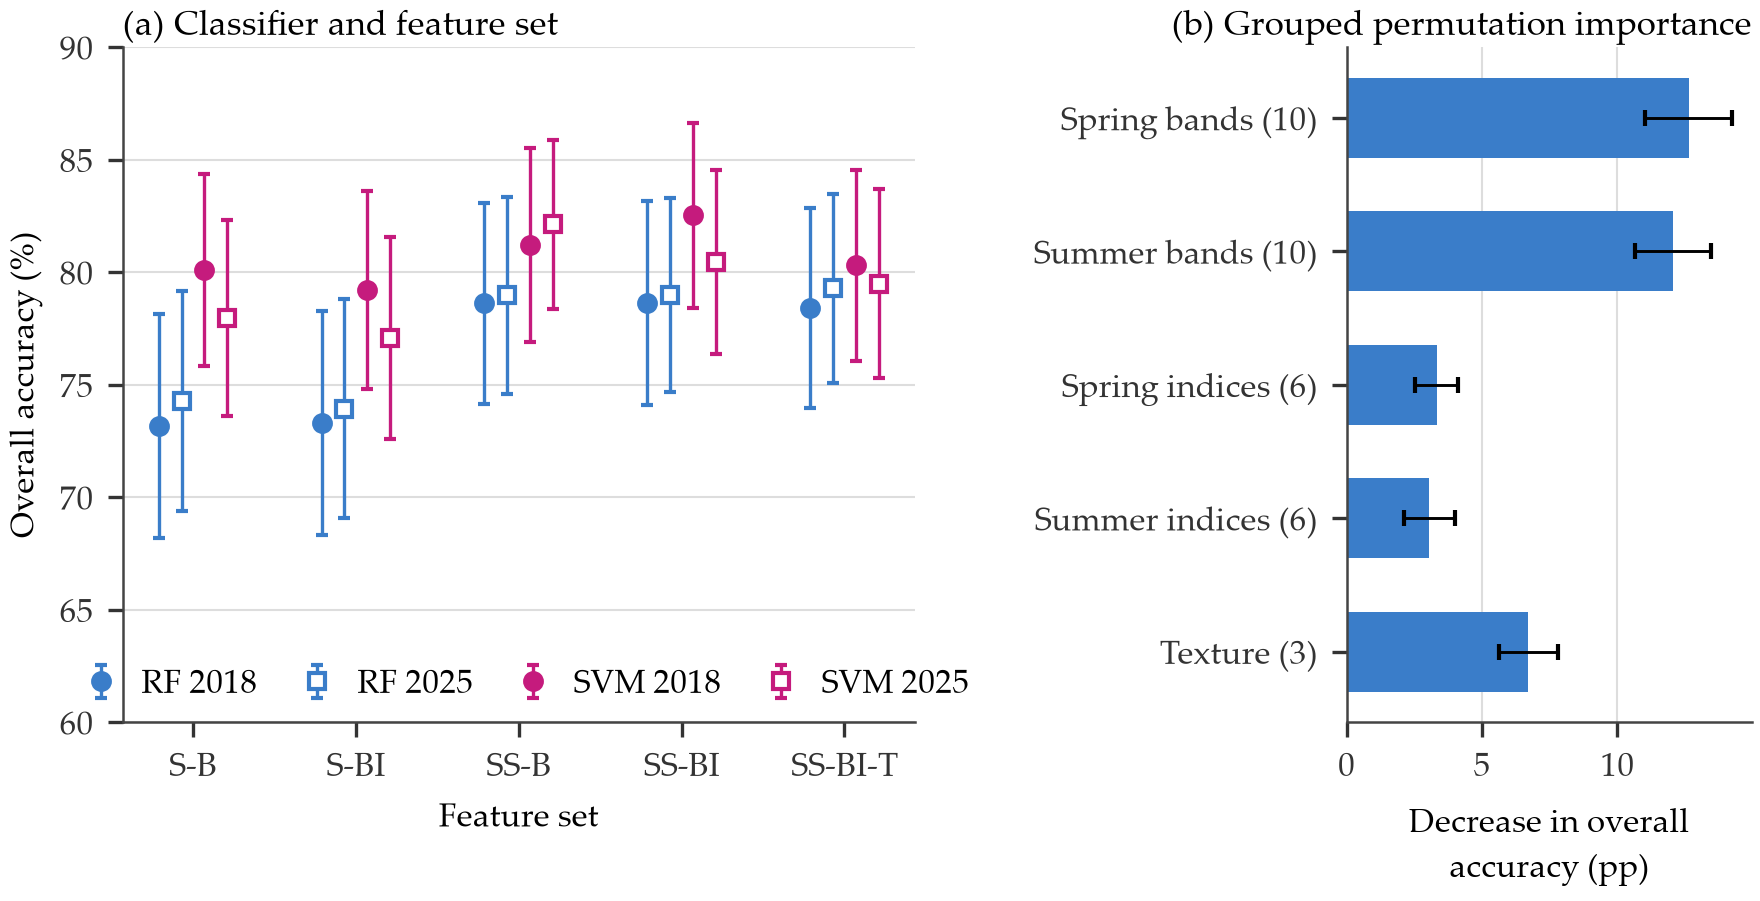
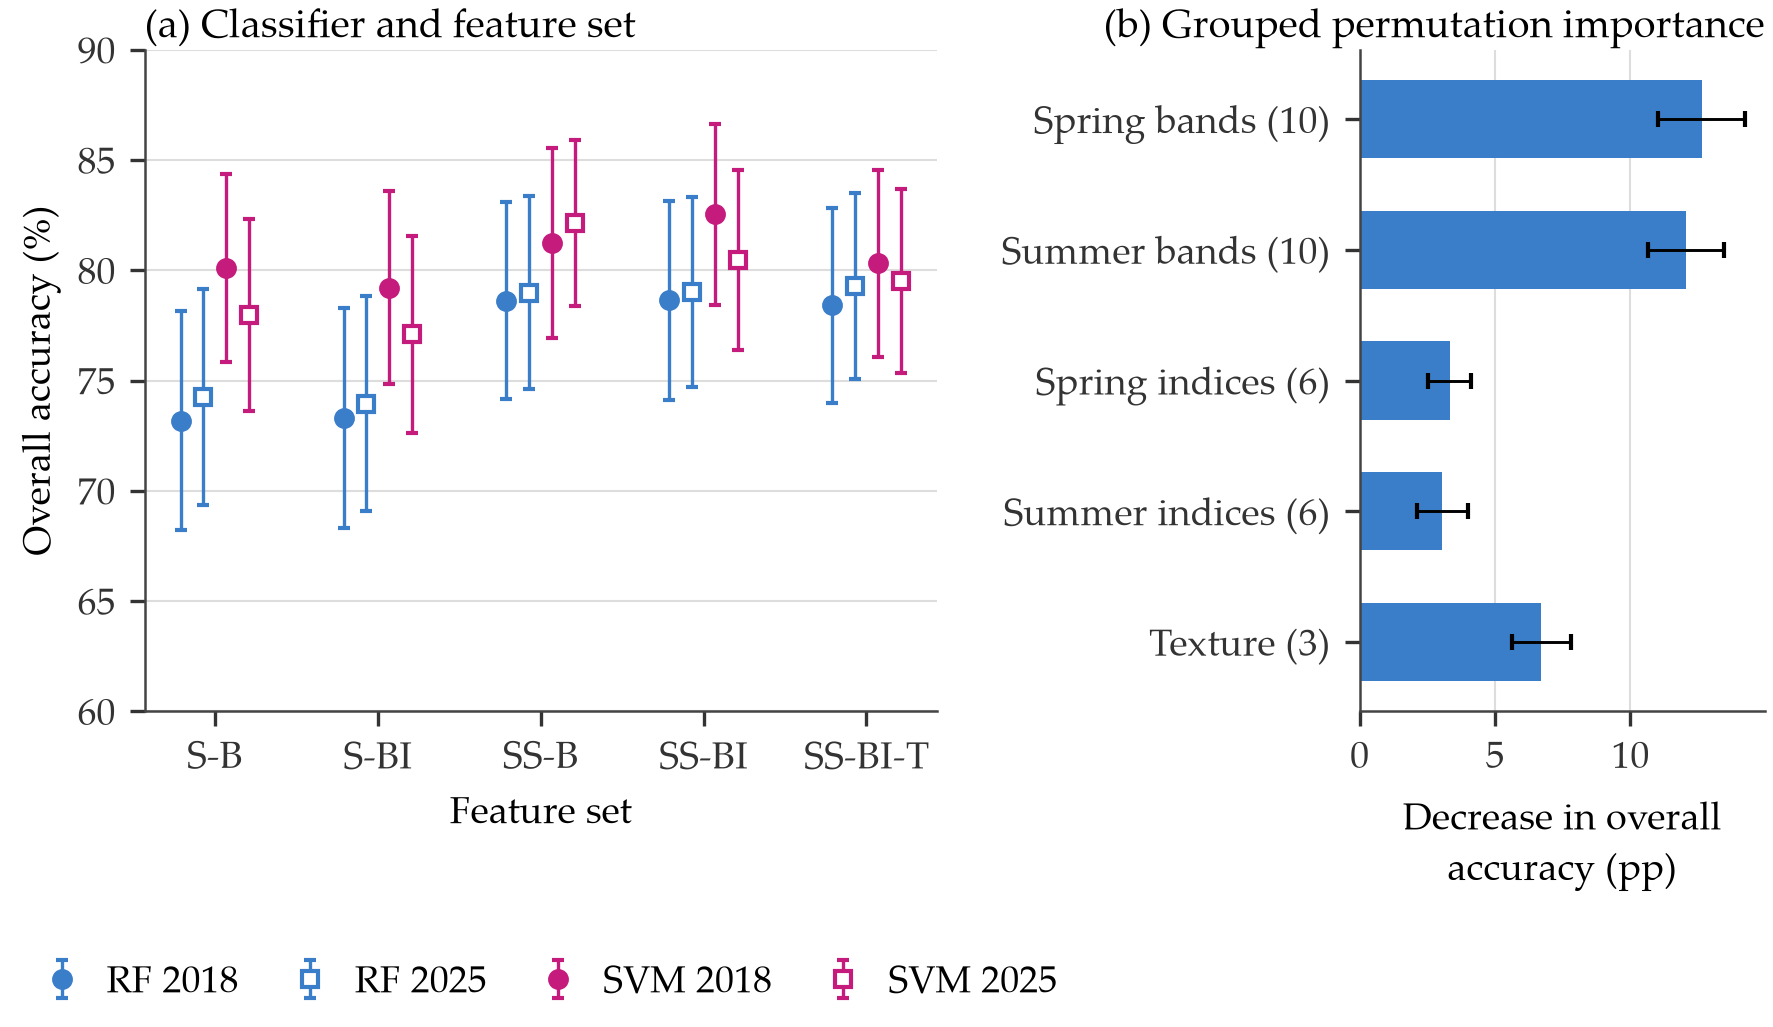
Update affiliation, figure font sizes and CVA histogram sample
- CITATION.cff: new author affiliation
- Figures 4, 5, 7 and 10: minimum printed font 9 pt, layouts adjusted
- Figure 6: histogram drawn from the same 500,000 pixels used for the Otsu threshold
- fig_tr.py: missing Turkish label for the PCC change column title

diff --git a/src/figures.py b/src/figures.py
@@ -12,6 +12,7 @@ from PIL import Image
 from pyproj import Transformer
 from common import *
 from estimators import Z95
+from change import cva_magnitude
 import print_size
 print_size.enable()  # minimum 8 pt at printed size
 if os.environ.get('FIG_LANG') == 'tr':
@@ -24,6 +25,8 @@ plt.rcParams.update({'font.family': 'Palatino Linotype', 'font.size': 8, 'axes.l
                      'legend.fontsize': 8, 'legend.title_fontsize': 8.5,
                      'axes.edgecolor': '#444444', 'xtick.color': '#333333', 'ytick.color': '#333333',
                      'savefig.dpi': 300, 'savefig.bbox': 'tight', 'savefig.pad_inches': 0.03})
+BIG = {'font.size': 9, 'axes.titlesize': 9.5, 'axes.labelsize': 9, 'xtick.labelsize': 9, 'ytick.labelsize': 9,
+       'legend.fontsize': 9}   # map and accuracy figures with dense labels: 9 pt floor at printed size
 INK, GRID = '#222222', '#dddddd'
 y1, y2 = YEARS
 NAMES = [CLASSES[c] for c in CLASSES]
@@ -75,14 +78,14 @@ def scalebar(ax, ext, length, label, loc=(0.05, 0.06), color='black'):
     sx, sy = x0 + loc[0] * (x1 - x0), yb + loc[1] * (yt - yb); h = 0.014 * (yt - yb)
     ax.add_patch(Rectangle((sx, sy), length / 2, h, fc='black', ec='black', lw=0.5, zorder=5))
     ax.add_patch(Rectangle((sx + length / 2, sy), length / 2, h, fc='white', ec='black', lw=0.5, zorder=5))
-    ax.text(sx + length / 2, sy + 2.2 * h, label, ha='center', va='bottom', fontsize=8, zorder=5,
+    ax.text(sx + length / 2, sy + 2.2 * h, label, ha='center', va='bottom', zorder=5,
             bbox=dict(fc='white', ec='none', alpha=0.75, pad=0.8))
 
 
 def north(ax, ext, pos=(0.95, 0.80)):
     x0, x1, yb, yt = ext
     x, y = x0 + pos[0] * (x1 - x0), yb + pos[1] * (yt - yb)
-    ax.annotate('N', xy=(x, y + 0.12 * (yt - yb)), xytext=(x, y), ha='center', va='top', fontsize=8, fontweight='bold',
+    ax.annotate('N', xy=(x, y + 0.12 * (yt - yb)), xytext=(x, y), ha='center', va='top', fontweight='bold',
                 arrowprops=dict(arrowstyle='-|>', color='black', lw=1), zorder=6,
                 bbox=dict(fc='white', ec='none', alpha=0.7, pad=0.5))
 
@@ -239,17 +242,18 @@ def fig04():
 # ---------------------------------------------------------------- Figure 5 -----------------
 def fig05():
     M = read(f'{MAPS}/cva_magnitude.tif')[0][0] / 1000
-    thr = json.load(open(f'{TABS}/change_area_postprocessing.json'))['cva_otsu_threshold']
+    post = json.load(open(f'{TABS}/change_area_postprocessing.json')); thr = post['cva_otsu_threshold']
     fig = plt.figure(figsize=(FW, 4.8))
     a = fig.add_axes([0.0, 0.50, 0.55, 0.47]); b = fig.add_axes([0.745, 0.585, 0.25, 0.36]); c = fig.add_axes([0.09, 0.15, 0.90, 0.26])
     im = a.imshow(np.clip(M, 0, 0.8), cmap='Greys', vmin=0, vmax=0.8, extent=EXT, interpolation='bilinear')
     noticks(a); a.set_title('(a) CVA magnitude', loc='left', pad=3); scalebar(a, EXT, 5000, '5 km')
     cax = fig.add_axes([0.565, 0.56, 0.015, 0.36]); fig.colorbar(im, cax=cax, ticks=[0, 0.2, 0.4, 0.6, 0.8])
-    v = M[M > 0].ravel(); v = np.random.default_rng(1).choice(v, 400000, replace=False)
+    Mf, valid = cva_magnitude()   # same 500,000 pixels as the Otsu threshold (change.py)
+    v = Mf.ravel()[np.random.default_rng(SEED).choice(np.flatnonzero(valid), 500000, replace=False)]
     b.hist(v, bins=np.linspace(0, 1.2, 97), color='#9a9a9a', ec='none')
     b.hist(v[v > thr], bins=np.linspace(0, 1.2, 97), color='#c51b7d', ec='none')
     b.axvline(thr, color=INK, lw=0.9, ls='--')
-    b.text(thr + 0.04, b.get_ylim()[1] * 0.97, f'Otsu threshold = {thr:.3f}\n{100 * (v > thr).mean():.1f}% of pixels above', va='top')
+    b.text(thr + 0.04, b.get_ylim()[1] * 0.97, f'Otsu threshold = {thr:.3f}\n{100 * post['cva_fraction_above']:.1f}% of pixels above', va='top')
     b.yaxis.set_major_formatter(plt.FuncFormatter(lambda x, _: f'{x / 1000:.0f}'))
     b.set_xticks([0, 0.4, 0.8, 1.2])
     b.set_xlabel('Magnitude (reflectance units)'); b.set_ylabel('Pixels (10³)')
@@ -315,8 +319,8 @@ SITES = [('Yapracık and Bağlıca', 32.585, 39.905), ('Etimesgut and Eryaman', 
 def fig06():
     l1 = read(f'{MAPS}/lulc_{y1}_rf.tif')[0][0]; l2 = read(f'{MAPS}/lulc_{y2}_pcc.tif')[0][0]
     cc = change_code(l1, l2)
-    fig, axs = plt.subplots(3, 5, figsize=(FW, 4.55), gridspec_kw={'wspace': 0.03, 'hspace': 0.05})
-    fig.subplots_adjust(left=0.065, right=1.0, top=0.95, bottom=0.20)
+    fig, axs = plt.subplots(3, 5, figsize=(FW, 4.85), gridspec_kw={'wspace': 0.03, 'hspace': 0.05})
+    fig.subplots_adjust(left=0.07, right=1.0, top=0.95, bottom=0.22)
     half = 150
     for i, (name, lo, la) in enumerate(SITES):
         x, y = to_utm.transform(lo, la); c = int((x - T.c) / T.a); r = int((y - T.f) / T.e)
@@ -355,8 +359,8 @@ def fig07():
     acc = pd.read_csv(f'{TABS}/accuracy_by_class.csv'); ch = pd.read_csv(f'{TABS}/change_accuracy.csv').set_index('method')
     maps = [('RF_2018', f'RF {y1}', '#3a7dc9', 'o'), ('RF_PCC_2025', f'RF {y2}', '#3a7dc9', 's'),
             ('DW_2018', f'DW {y1}', '#e08214', 'o'), ('DW_2025', f'DW {y2}', '#e08214', 's')]
-    fig = plt.figure(figsize=(FW, 3.4))
-    axs = [fig.add_axes([0.075, 0.33, 0.26, 0.60]), fig.add_axes([0.385, 0.33, 0.26, 0.60]), fig.add_axes([0.81, 0.33, 0.18, 0.60])]
+    fig = plt.figure(figsize=(FW, 3.7))
+    axs = [fig.add_axes([0.075, 0.33, 0.25, 0.60]), fig.add_axes([0.375, 0.33, 0.25, 0.60]), fig.add_axes([0.835, 0.33, 0.16, 0.60])]
     xb = np.arange(5)
     for ax, met, t in ((axs[0], 'UA', "(a) User's accuracy"), (axs[1], 'PA', "(b) Producer's accuracy")):
         for k, (m, lab, col, mk) in enumerate(maps):
@@ -379,7 +383,7 @@ def fig07():
     ax.set_yticks(yb); ax.set_yticklabels([l for _, l in mets]); ax.set_xlim(0, 100); ax.set_xticks([0, 50, 100])
     ax.grid(axis='x', color=GRID, lw=0.5); ax.set_axisbelow(True); ax.set_xlabel('Accuracy (%)')
     ax.set_title('(c) Change products', loc='left', pad=3)
-    fig.legend(*ax.get_legend_handles_labels(), frameon=False, loc='lower center', bbox_to_anchor=(0.90, -0.02), ncol=1,
+    fig.legend(*ax.get_legend_handles_labels(), frameon=False, loc='lower center', bbox_to_anchor=(0.91, -0.02), ncol=1,
                handletextpad=0.3, labelspacing=0.25)
     for a_ in axs:
         for s in ('top', 'right'):
@@ -475,8 +479,8 @@ def fig09():
 # ---------------------------------------------------------------- Figure 10 ----------------
 def fig10():
     e = pd.read_csv(f'{TABS}/experiments_classifier_featureset.csv'); pi = pd.read_csv(f'{TABS}/permutation_importance_grouped.csv')
-    fig = plt.figure(figsize=(FW, 3.0))
-    axs = [fig.add_axes([0.085, 0.17, 0.44, 0.75]), fig.add_axes([0.765, 0.17, 0.225, 0.75])]
+    fig = plt.figure(figsize=(FW, 3.5))
+    axs = [fig.add_axes([0.09, 0.30, 0.44, 0.63]), fig.add_axes([0.765, 0.30, 0.225, 0.63])]
     ax = axs[0]; fs = list(dict.fromkeys(e.feature_set)); xb = np.arange(len(fs))
     for k, (clf, col) in enumerate((('RF', '#3a7dc9'), ('SVM', '#c51b7d'))):
         for j, (yr, mk) in enumerate(((y1, 'o'), (y2, 's'))):
@@ -487,7 +491,8 @@ def fig10():
     ax.set_xticks(xb); ax.set_xticklabels(fs); ax.set_ylabel('Overall accuracy (%)'); ax.set_ylim(60, 90)
     ax.set_xlabel('Feature set')
     ax.grid(axis='y', color=GRID, lw=0.5); ax.set_axisbelow(True)
-    ax.legend(frameon=False, ncol=4, loc='lower center', columnspacing=0.8, handletextpad=0.2, borderaxespad=0.2)
+    fig.legend(*ax.get_legend_handles_labels(), frameon=False, ncol=4, loc='lower center', bbox_to_anchor=(0.31, -0.01),
+               columnspacing=0.9, handletextpad=0.2)
     ax.set_title('(a) Classifier and feature set', loc='left', pad=3)
     ax = axs[1]; pi = pi.iloc[::-1]
     ax.barh(np.arange(len(pi)), pi.mean_drop_pp, xerr=pi.sd_drop_pp, color='#3a7dc9', height=0.6, capsize=2, error_kw=dict(lw=0.7))
@@ -548,7 +553,9 @@ if __name__ == '__main__':
     sp['ref_transition'] = [ttype(a, b) for a, b in zip(sp.ref_2018, sp.ref_2025)]
     todo = sys.argv[1:] or ['fig01', 'fig02', 'fig03', 'fig04', 'fig05', 'fig06', 'fig07', 'fig08', 'fig09', 'fig10', 'figS1', 'figS2']
     for f in todo:
-        globals()[f](); print('done', f, flush=True)
+        with plt.rc_context(BIG if f in ('fig04', 'fig06', 'fig07', 'fig10') else {}):
+            globals()[f]()
+        print('done', f, flush=True)
 
 
 

diff --git a/src/print_size.py b/src/print_size.py
@@ -8,6 +8,7 @@ import matplotlib.text as mtext
 
 PRINT_CM = 15.2          # figure width in the manuscript (full text width of the template)
 MIN_PT = 8.0             # minimum printed font size
+MIN_FIG = {'fig04_maps_change': 9.0, 'fig06_examples': 9.0, 'fig07_accuracy': 9.0, 'fig10_experiments': 9.0}   # dense figures, larger floor
 LOG = {}
 _orig_save = mfig.Figure.savefig
 
@@ -23,15 +24,16 @@ def _scale(fig):
 
 
 def _save(self, fname, *a, **k):
+    name = os.path.splitext(os.path.basename(str(fname)))[0]
+    lo = MIN_FIG.get(name, MIN_PT)
     for _ in range(10):                        # enlarging text can widen the tight bbox
         s = _scale(self)
-        small = [t for t in _texts(self) if t.get_fontsize() * s < MIN_PT - 1e-6]
+        small = [t for t in _texts(self) if t.get_fontsize() * s < lo - 1e-6]
         if not small:
             break
         for t in small:
-            t.set_fontsize((MIN_PT + 0.02) / s)
+            t.set_fontsize((lo + 0.02) / s)
     s = _scale(self)
-    name = os.path.splitext(os.path.basename(str(fname)))[0]
     LOG[name] = round(min(t.get_fontsize() for t in _texts(self)) * s, 2)
     out = _orig_save(self, fname, *a, **k)
     path = os.path.join(os.path.dirname(str(fname)), 'print_font_sizes.json')

diff --git a/src/fig_tr.py b/src/fig_tr.py
@@ -42,7 +42,7 @@ PAIRS = [
  ('(a) CVA magnitude', '(a) CVA büyüklüğü'),
  ("(a) User's accuracy", '(a) Kullanıcı doğruluğu'), ("(b) Producer's accuracy", '(b) Üretici doğruluğu'),
  ('(c) Change products', '(c) Değişim ürünleri'), ('(c) Reference estimate', '(c) Referans kestirimi'),
- ('RF land cover', 'RF arazi örtüsü'), ('(b) Ankara province', '(b) Ankara ili'), ('(c) PCC change', '(c) PCC değişimi'),
+ ('RF land cover', 'RF arazi örtüsü'), ('(b) Ankara province', '(b) Ankara ili'), ('(c) PCC change', '(c) PCC değişimi'), ('PCC change', 'PCC değişimi'),
  ('Spring + summer observations', 'İlkbahar + yaz gözlemleri'), ('Transition area (ha)', 'Geçiş alanı (ha)'),
  ('Overall accuracy (%)', 'Genel doğruluk (%)'), ('Accuracy (%)', 'Doğruluk (%)'), ('Area (10³ ha)', 'Alan (10³ ha)'),
  ('Estimate ± 95% CI', 'Kestirim ± %95 GA'), ('Map pixel count', 'Harita piksel sayımı'),
